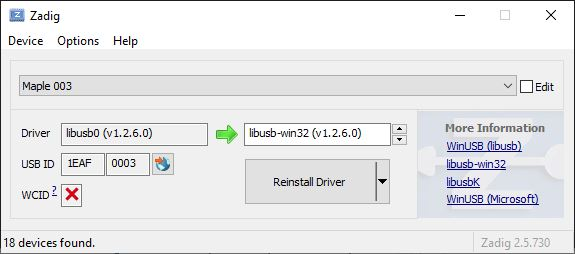
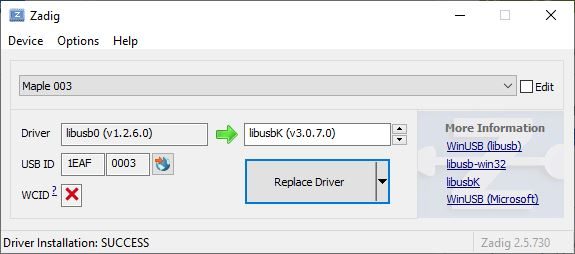
DFU Driver Troubleshooting

diff --git a/doc/Troubleshooting.md b/doc/Troubleshooting.md
@@ -6,9 +6,8 @@ Fortunately it is nearly impossible to 'brick' an STM32, so whatever state your 
 1. [Module stuck in DFU mode after flashing](#module-stuck-in-dfu-mode-after-flashing-and-cannot-be-re-flashed)
 
 ## Re-installing the Maple DFU device drivers
-If reading or writing your MULTI-Module fails, and the verbose output is like the example below, you need to re-install the Maple DFU device driver.
+If reading or writing your MULTI-Module fails, and the verbose output is like the example below, you need to replace the Maple DFU device driver with a different one.
 
-This is especially true for Flash Multi 0.3.0 (or newer) as it includes a newer version of dfu-util.exe, which seems more sensitive to driver-related problems than the older version which was included with Flash Multi 0.2.x.
 ```
 Filter on vendor = 0x1eaf product = 0x0003
 Opening DFU capable USB device... ID 1eaf:0003
@@ -32,12 +31,12 @@ Cannot claim interface
    1. Device Manager should now show the Maple DFU device
       
       ![Maple DFU  Device](/img/maple-dfu.jpg)
-1. Use Zadig to reinstall the driver
+1. Use Zadig to replace the driver
    1. Run **Zadig** from the location where you installed or extracted it
    1. Click **Options** -> **List all Devices**
    1. In the drop-down device list select `Maple 003` or `Maple DFU`, whichever is listed
-   1. Set the right-hand driver selector to `libusb-win32 (v1.2.6.0)`
-   1. Click the **Reinstall Driver** button
+   1. Set the right-hand driver selector to `libusbK (v3.0.7.0)`
+   1. Click the **Replace Driver** button
       
       ![Zadig](/img/zadig.jpg)
 
